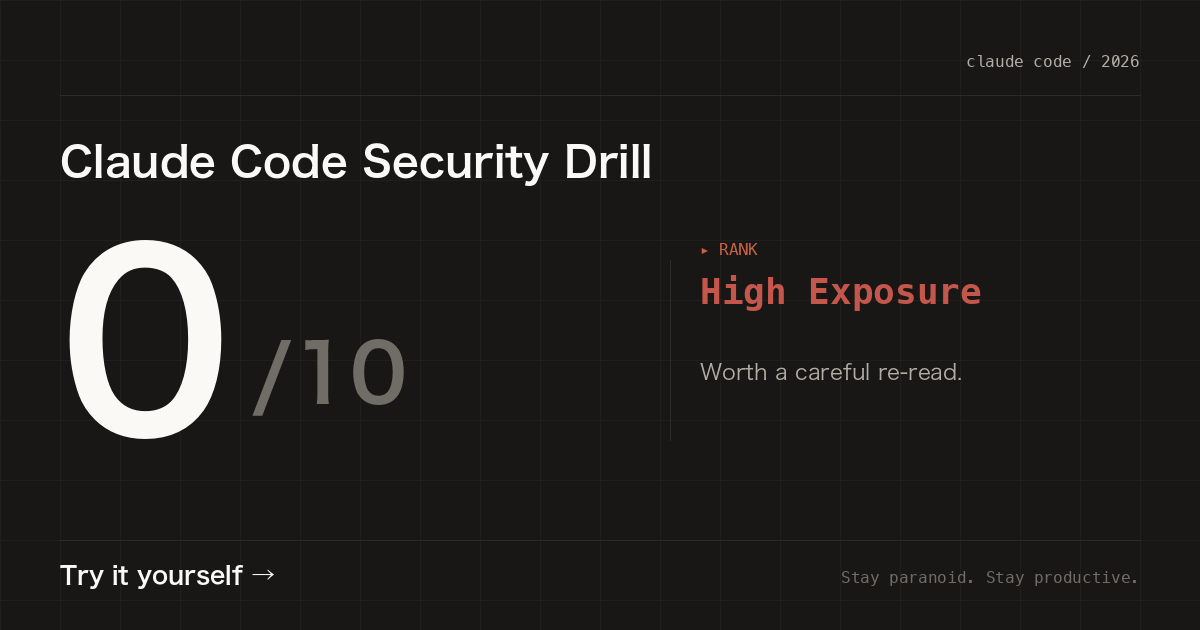
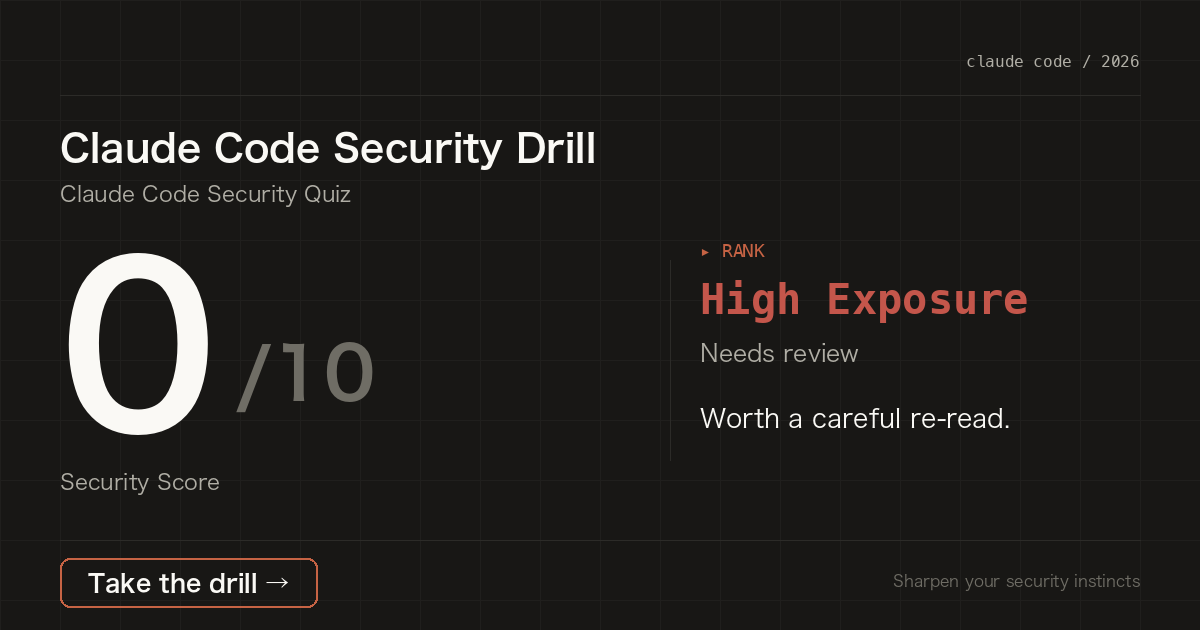
Improve OGP card readability for X share cards
- Add subtitle and score caption so the card reads "this is a quiz"
- Add per-language gloss (e.g. 「最高ランク」) under each rank name
- Bump rank name size with auto-fit fallback for long labels
- Brighten the per-score message (INK_DIM → INK) and bump its size
- Replace the "Stay paranoid..." tagline with conversion-oriented copy
- Wrap the CTA in an outlined pill so it reads as a button

diff --git a/scripts/generate_og_images.py b/scripts/generate_og_images.py
@@ -15,6 +15,7 @@ from _common import (
     load_font,
     og_message,
     og_output_dir,
+    og_rank_subtitle,
 )
 
 # Color palette (mirrors the warm-dark CSS tokens, intentionally shifted off
@@ -32,6 +33,7 @@ def make_og(score, lang, output_path):
     W, H = 1200, 630
     img = Image.new("RGB", (W, H), BG)
     draw = ImageDraw.Draw(img)
+    strings = OG_STRINGS[lang]
 
     # Subtle grid lines
     for x in range(0, W, 60):
@@ -48,56 +50,116 @@ def make_og(score, lang, output_path):
     # Horizontal divider
     draw.line([(60, 95), (W - 60, 95)], fill=LINE, width=1)
 
-    # Main title
-    title_font = load_font("sans_bold", 42, lang)
-    draw.text((60, 140), OG_STRINGS[lang]["title"], fill=INK, font=title_font)
+    # Brand title + clarifying subtitle so the card reads "this is a quiz"
+    title_font = load_font("sans_bold", 38, lang)
+    draw.text((60, 128), strings["title"], fill=INK, font=title_font)
+    subtitle_font = load_font("sans_reg", 22, lang)
+    draw.text((60, 182), strings["subtitle"], fill=INK_DIM, font=subtitle_font)
 
-    # Massive score
-    score_font = load_font("sans_bold", 240, lang)
+    # Massive score (left)
+    score_font = load_font("sans_bold", 220, lang)
     score_text = f"{score}"
     score_bbox = draw.textbbox((0, 0), score_text, font=score_font)
     score_w = score_bbox[2] - score_bbox[0]
     score_h = score_bbox[3] - score_bbox[1]
     score_x = 60
-    score_y = 220
+    score_y = 235
     # Score number is always INK; only the rank itself carries the status color.
     draw.text((score_x, score_y), score_text, fill=INK, font=score_font)
 
     # /10 next to score
-    out_of_font = load_font("sans_bold", 80, lang)
+    out_of_font = load_font("sans_bold", 72, lang)
     out_of_text = "/10"
-    out_of_x = score_x + score_w + 20
+    out_of_x = score_x + score_w + 18
     out_of_bbox = draw.textbbox((0, 0), out_of_text, font=out_of_font)
     out_of_h = out_of_bbox[3] - out_of_bbox[1]
     out_of_y = score_y + score_h - out_of_h - 10
     draw.text((out_of_x, out_of_y), out_of_text, fill=INK_FAINT, font=out_of_font)
 
+    # Score caption — anchors what the big number actually is
+    score_label_font = load_font("sans_reg", 22, lang)
+    draw.text((60, 470), strings["score_label"], fill=INK_DIM, font=score_label_font)
+
     # Right side: rank info
     right_x = 700
-    rank_label_font = load_font("mono_reg", 16, lang)
-    draw.text((right_x, 240), "▸ RANK", fill=ACCENT, font=rank_label_font)
+    rank_label_font = load_font("mono_reg", 18, lang)
+    draw.text(
+        (right_x, 240),
+        f"▸ {strings['rank_label']}",
+        fill=ACCENT,
+        font=rank_label_font,
+    )
 
     rank_name, rank_color = get_rank(score, lang)
-    rank_font = load_font("mono_bold", 36, lang)
-    draw.text((right_x, 270), rank_name, fill=rank_color, font=rank_font)
+    # Rank name is bumped up for legibility on small Twitter cards, but
+    # auto-fits when the label is long (e.g. "Aware but Vulnerable") so it
+    # never overflows the right margin.
+    right_margin = W - 60
+    rank_size = 42
+    while True:
+        rank_font = load_font("mono_bold", rank_size, lang)
+        rank_bbox = draw.textbbox((0, 0), rank_name, font=rank_font)
+        if right_x + (rank_bbox[2] - rank_bbox[0]) <= right_margin or rank_size <= 32:
+            break
+        rank_size -= 2
+    draw.text((right_x, 275), rank_name, fill=rank_color, font=rank_font)
+
+    # Per-language gloss under the rank name (e.g. 「最高ランク」for ja).
+    rank_subtitle_font = load_font("sans_reg", 24, lang)
+    draw.text(
+        (right_x, 340),
+        og_rank_subtitle(score, lang),
+        fill=INK_DIM,
+        font=rank_subtitle_font,
+    )
 
     # Vertical separator
-    draw.line([(right_x - 30, 260), (right_x - 30, 440)], fill=LINE, width=1)
+    draw.line([(right_x - 30, 260), (right_x - 30, 460)], fill=LINE, width=1)
 
-    # Message
-    msg_font = load_font("sans_reg", 22, lang)
-    draw.text((right_x, 360), og_message(score, lang), fill=INK_DIM, font=msg_font)
+    # Message — bumped from INK_DIM to INK and from 22 to 26 so it reads on
+    # the small Twitter card crop.
+    msg_font = load_font("sans_reg", 26, lang)
+    draw.text((right_x, 405), og_message(score, lang), fill=INK, font=msg_font)
 
-    # Bottom CTA / footer
+    # Bottom divider
     draw.line([(60, 540), (W - 60, 540)], fill=LINE, width=1)
 
+    # CTA — outlined pill. Stays minimal/dark but reads as a button.
+    cta_text = strings["cta"]
     cta_font = load_font("sans_bold", 24, lang)
-    draw.text((60, 562), OG_STRINGS[lang]["cta"], fill=INK, font=cta_font)
+    cta_bbox = draw.textbbox((0, 0), cta_text, font=cta_font)
+    cta_w = cta_bbox[2] - cta_bbox[0]
+    cta_h = cta_bbox[3] - cta_bbox[1]
+    btn_pad_x = 28
+    btn_pad_y = 14
+    btn_x = 60
+    btn_y = 558
+    btn_w = cta_w + btn_pad_x * 2
+    btn_h = cta_h + btn_pad_y * 2
+    draw.rounded_rectangle(
+        (btn_x, btn_y, btn_x + btn_w, btn_y + btn_h),
+        radius=10,
+        outline=ACCENT,
+        width=2,
+    )
+    draw.text(
+        (btn_x + btn_pad_x - cta_bbox[0], btn_y + btn_pad_y - cta_bbox[1]),
+        cta_text,
+        fill=INK,
+        font=cta_font,
+    )
 
-    site_font = load_font("mono_reg", 16, lang)
-    site_text = "Stay paranoid. Stay productive."
-    bbox = draw.textbbox((0, 0), site_text, font=site_font)
-    draw.text((W - 60 - (bbox[2] - bbox[0]), 568), site_text, fill=INK_FAINT, font=site_font)
+    # Tagline aligned to the CTA's vertical center, replacing the old
+    # "Stay paranoid..." flavor line with something more conversion-oriented.
+    # Uses the sans (CJK-capable) font so the ja gloss renders correctly.
+    tagline_font = load_font("sans_reg", 16, lang)
+    tagline_text = strings["tagline"]
+    tg_bbox = draw.textbbox((0, 0), tagline_text, font=tagline_font)
+    tg_w = tg_bbox[2] - tg_bbox[0]
+    tg_h = tg_bbox[3] - tg_bbox[1]
+    tg_x = W - 60 - tg_w
+    tg_y = btn_y + (btn_h - tg_h) // 2 - tg_bbox[1]
+    draw.text((tg_x, tg_y), tagline_text, fill=INK_FAINT, font=tagline_font)
 
     img.save(output_path, "PNG", optimize=True)
 

diff --git a/scripts/_common.py b/scripts/_common.py
@@ -90,6 +90,16 @@ def get_rank(score, lang="ja"):
 OG_STRINGS = {
     "ja": {
         "title": "Claude Codeセキュリティドリル",
+        "subtitle": "Claude Code セキュリティ理解度チェック",
+        "score_label": "セキュリティスコア",
+        "rank_label": "RANK",
+        "rank_subtitles": {
+            10: "最高ランク",
+            8: "上位ランク",
+            6: "中位ランク",
+            4: "要注意ランク",
+            0: "要復習ランク",
+        },
         "messages": {
             10: "完璧でした。",
             8: "基本姿勢は身についています。",
@@ -97,10 +107,21 @@ OG_STRINGS = {
             4: "復習をおすすめします。",
             0: "見直しが必要です。",
         },
-        "cta": "あなたも挑戦できる →",
+        "cta": "あなたも挑戦する →",
+        "tagline": "Claude Codeでセキュリティ感覚を鍛える",
     },
     "en": {
         "title": "Claude Code Security Drill",
+        "subtitle": "Claude Code Security Quiz",
+        "score_label": "Security Score",
+        "rank_label": "RANK",
+        "rank_subtitles": {
+            10: "Top tier",
+            8: "Strong",
+            6: "Mixed",
+            4: "At risk",
+            0: "Needs review",
+        },
         "messages": {
             10: "Perfect. Pass it on.",
             8: "Solid instincts.",
@@ -108,17 +129,25 @@ OG_STRINGS = {
             4: "Worth reviewing.",
             0: "Worth a careful re-read.",
         },
-        "cta": "Try it yourself →",
+        "cta": "Take the drill →",
+        "tagline": "Sharpen your security instincts",
     },
 }
 
 
-def og_message(score, lang):
-    msgs = OG_STRINGS[lang]["messages"]
+def _og_threshold_pick(score, table):
     for threshold in (10, 8, 6, 4, 0):
         if score >= threshold:
-            return msgs[threshold]
-    return msgs[0]
+            return table[threshold]
+    return table[0]
+
+
+def og_message(score, lang):
+    return _og_threshold_pick(score, OG_STRINGS[lang]["messages"])
+
+
+def og_rank_subtitle(score, lang):
+    return _og_threshold_pick(score, OG_STRINGS[lang]["rank_subtitles"])
 
 
 # Cover-image strings. Title is a list of (segment, color_role) pairs per line.
